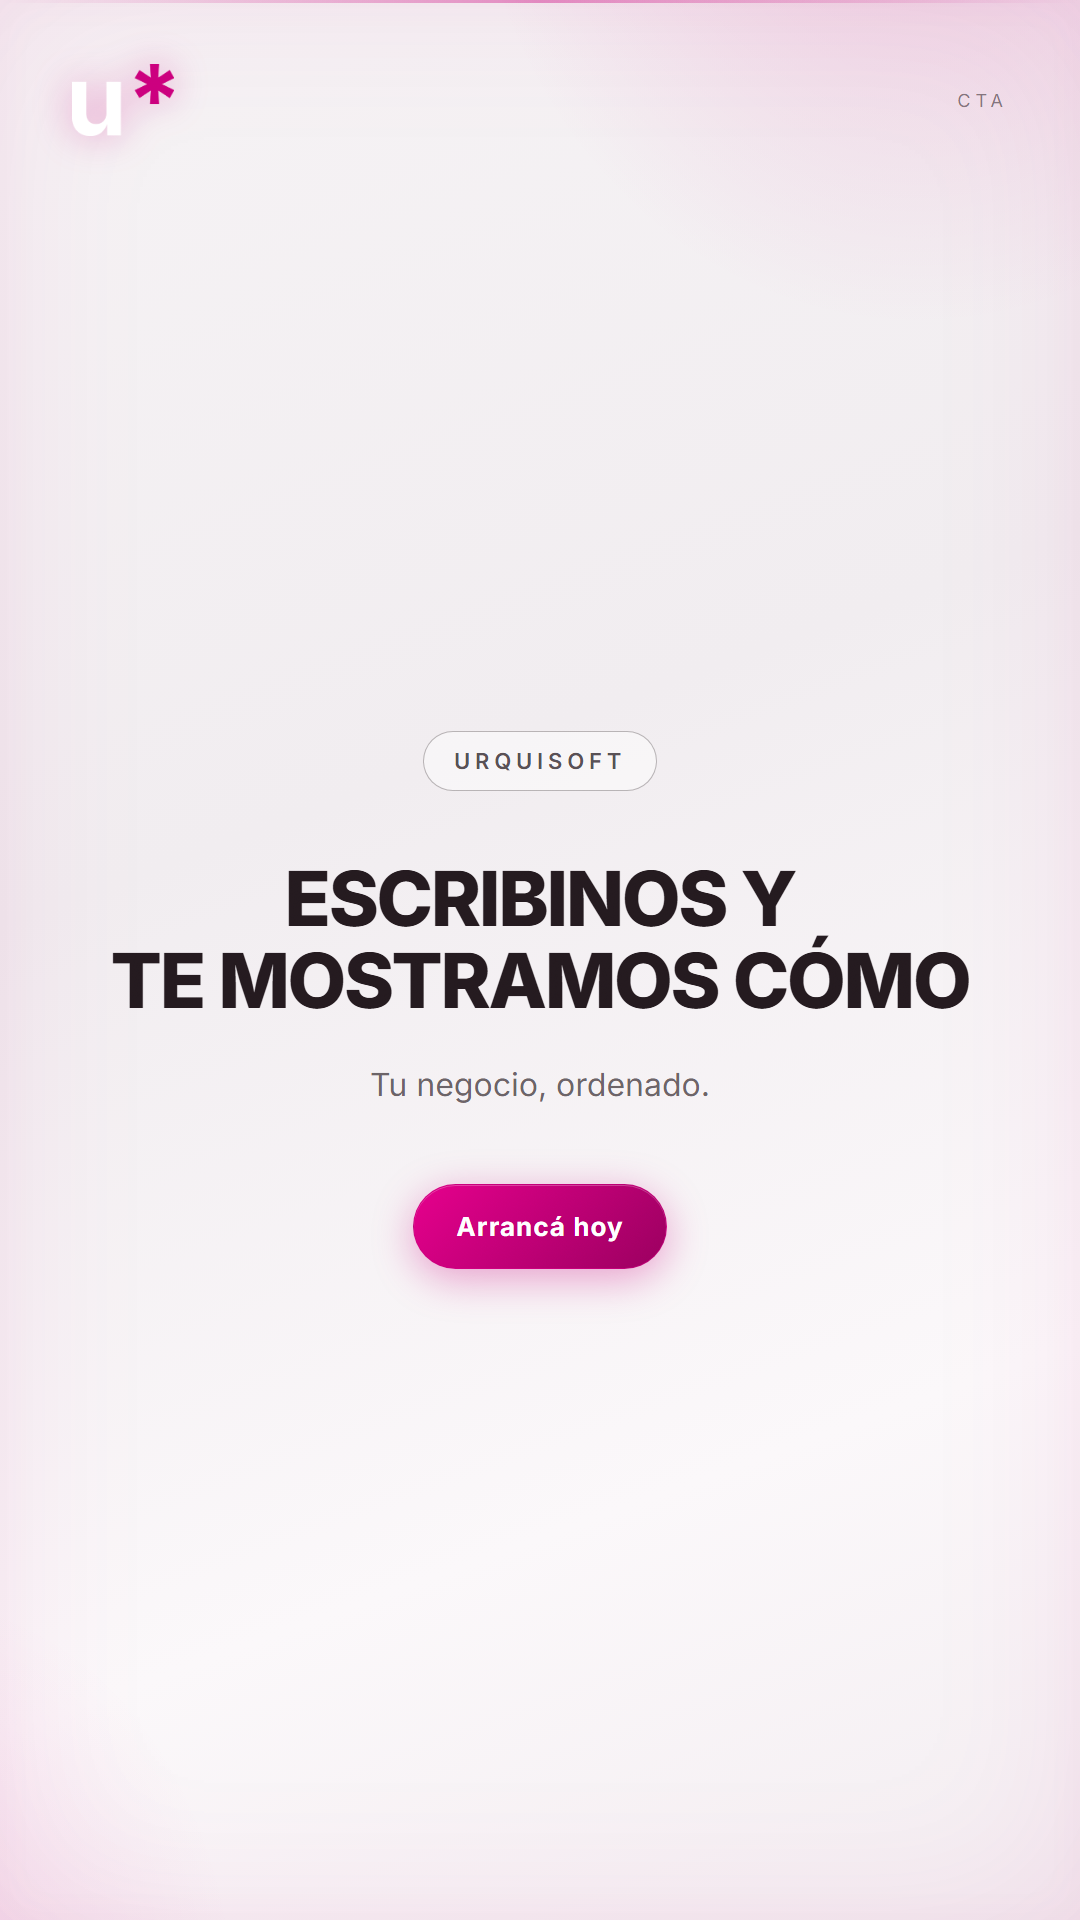
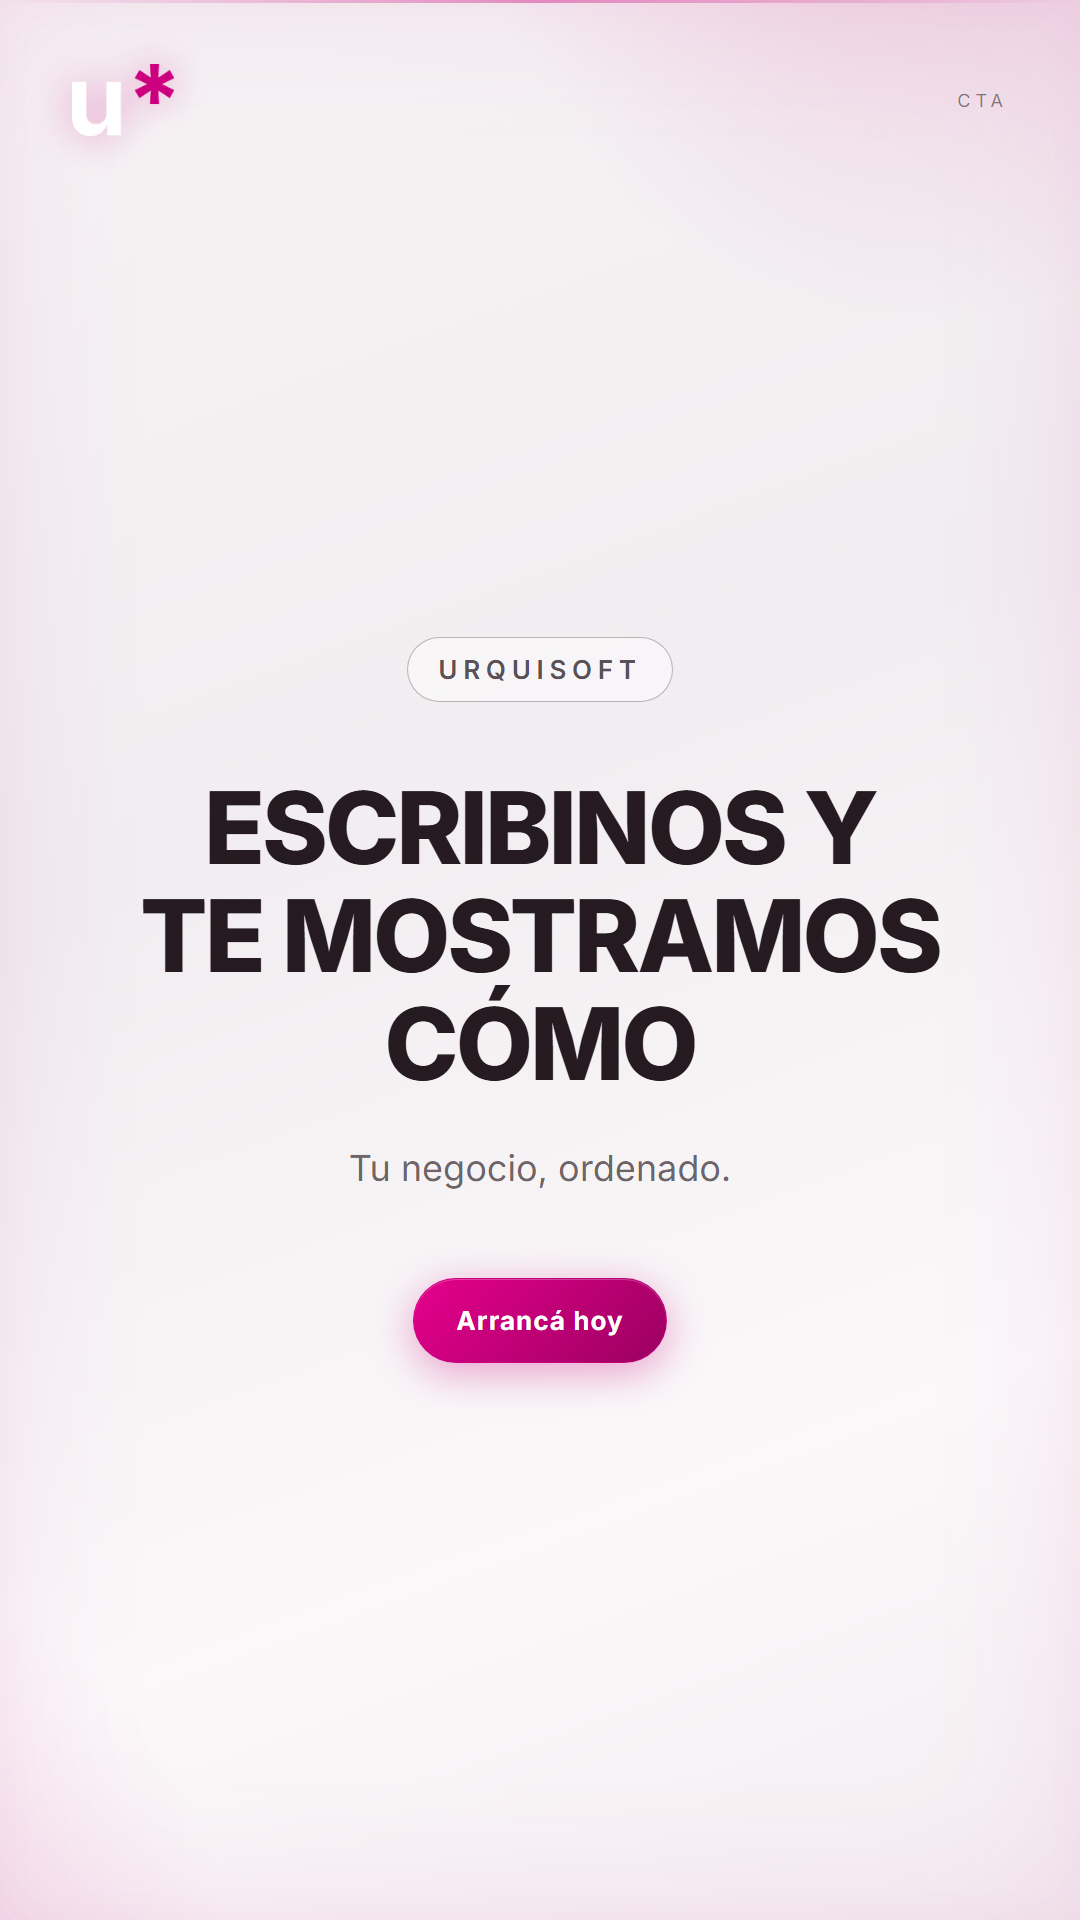
fix(stories): tipografia mas grande (titulo 100px, sub 36, kicker 26) solo en historias

Changed region(s): [[0.0917, 0.3438, 0.9167, 0.7188]]

diff --git a/stories/story-02/story.html b/stories/story-02/story.html
@@ -226,10 +226,10 @@ h1 .strike::after{content:"";position:absolute;left:-8px;right:-8px;top:54%;heig
 .scene .author .who{font-size:22px;font-weight:700;color:var(--w100)}
 .scene .author .who small{display:block;font-size:17px;font-weight:500;color:var(--w50)}
 
-.cover h1{font-size:76px;margin-top:60px}
-.cover .sub{margin-top:44px;font-size:32px;max-width:820px}
-.cover .cta{margin-top:80px}
-.cover .kicker{margin-bottom:6px}
+.cover h1{font-size:100px;margin-top:64px}
+.cover .sub{margin-top:48px;font-size:36px;max-width:860px}
+.cover .cta{margin-top:88px}
+.cover .kicker{margin-bottom:8px;font-size:26px}
 html,body{width:1080px;height:1920px;overflow:hidden}.slide{width:1080px;height:1920px}</style>
 </head>
 <body class="magenta">

diff --git a/stories/story-05/story.html b/stories/story-05/story.html
@@ -226,10 +226,10 @@ h1 .strike::after{content:"";position:absolute;left:-8px;right:-8px;top:54%;heig
 .scene .author .who{font-size:22px;font-weight:700;color:var(--w100)}
 .scene .author .who small{display:block;font-size:17px;font-weight:500;color:var(--w50)}
 
-.cover h1{font-size:76px;margin-top:60px}
-.cover .sub{margin-top:44px;font-size:32px;max-width:820px}
-.cover .cta{margin-top:80px}
-.cover .kicker{margin-bottom:6px}
+.cover h1{font-size:100px;margin-top:64px}
+.cover .sub{margin-top:48px;font-size:36px;max-width:860px}
+.cover .cta{margin-top:88px}
+.cover .kicker{margin-bottom:8px;font-size:26px}
 html,body{width:1080px;height:1920px;overflow:hidden}.slide{width:1080px;height:1920px}</style>
 </head>
 <body class="magenta">

diff --git a/stories/story-08/story.html b/stories/story-08/story.html
@@ -226,10 +226,10 @@ h1 .strike::after{content:"";position:absolute;left:-8px;right:-8px;top:54%;heig
 .scene .author .who{font-size:22px;font-weight:700;color:var(--w100)}
 .scene .author .who small{display:block;font-size:17px;font-weight:500;color:var(--w50)}
 
-.cover h1{font-size:76px;margin-top:60px}
-.cover .sub{margin-top:44px;font-size:32px;max-width:820px}
-.cover .cta{margin-top:80px}
-.cover .kicker{margin-bottom:6px}
+.cover h1{font-size:100px;margin-top:64px}
+.cover .sub{margin-top:48px;font-size:36px;max-width:860px}
+.cover .cta{margin-top:88px}
+.cover .kicker{margin-bottom:8px;font-size:26px}
 html,body{width:1080px;height:1920px;overflow:hidden}.slide{width:1080px;height:1920px}</style>
 </head>
 <body class="magenta">

diff --git a/stories/story-11/story.html b/stories/story-11/story.html
@@ -226,10 +226,10 @@ h1 .strike::after{content:"";position:absolute;left:-8px;right:-8px;top:54%;heig
 .scene .author .who{font-size:22px;font-weight:700;color:var(--w100)}
 .scene .author .who small{display:block;font-size:17px;font-weight:500;color:var(--w50)}
 
-.cover h1{font-size:76px;margin-top:60px}
-.cover .sub{margin-top:44px;font-size:32px;max-width:820px}
-.cover .cta{margin-top:80px}
-.cover .kicker{margin-bottom:6px}
+.cover h1{font-size:100px;margin-top:64px}
+.cover .sub{margin-top:48px;font-size:36px;max-width:860px}
+.cover .cta{margin-top:88px}
+.cover .kicker{margin-bottom:8px;font-size:26px}
 html,body{width:1080px;height:1920px;overflow:hidden}.slide{width:1080px;height:1920px}</style>
 </head>
 <body class="magenta">

diff --git a/stories/story-14/story.html b/stories/story-14/story.html
@@ -226,10 +226,10 @@ h1 .strike::after{content:"";position:absolute;left:-8px;right:-8px;top:54%;heig
 .scene .author .who{font-size:22px;font-weight:700;color:var(--w100)}
 .scene .author .who small{display:block;font-size:17px;font-weight:500;color:var(--w50)}
 
-.cover h1{font-size:76px;margin-top:60px}
-.cover .sub{margin-top:44px;font-size:32px;max-width:820px}
-.cover .cta{margin-top:80px}
-.cover .kicker{margin-bottom:6px}
+.cover h1{font-size:100px;margin-top:64px}
+.cover .sub{margin-top:48px;font-size:36px;max-width:860px}
+.cover .cta{margin-top:88px}
+.cover .kicker{margin-bottom:8px;font-size:26px}
 html,body{width:1080px;height:1920px;overflow:hidden}.slide{width:1080px;height:1920px}</style>
 </head>
 <body class="magenta">

diff --git a/stories/story-03/story.html b/stories/story-03/story.html
@@ -226,10 +226,10 @@ h1 .strike::after{content:"";position:absolute;left:-8px;right:-8px;top:54%;heig
 .scene .author .who{font-size:22px;font-weight:700;color:var(--w100)}
 .scene .author .who small{display:block;font-size:17px;font-weight:500;color:var(--w50)}
 
-.cover h1{font-size:76px;margin-top:60px}
-.cover .sub{margin-top:44px;font-size:32px;max-width:820px}
-.cover .cta{margin-top:80px}
-.cover .kicker{margin-bottom:6px}
+.cover h1{font-size:100px;margin-top:64px}
+.cover .sub{margin-top:48px;font-size:36px;max-width:860px}
+.cover .cta{margin-top:88px}
+.cover .kicker{margin-bottom:8px;font-size:26px}
 html,body{width:1080px;height:1920px;overflow:hidden}.slide{width:1080px;height:1920px}</style>
 </head>
 <body class="light">

diff --git a/stories/story-06/story.html b/stories/story-06/story.html
@@ -226,10 +226,10 @@ h1 .strike::after{content:"";position:absolute;left:-8px;right:-8px;top:54%;heig
 .scene .author .who{font-size:22px;font-weight:700;color:var(--w100)}
 .scene .author .who small{display:block;font-size:17px;font-weight:500;color:var(--w50)}
 
-.cover h1{font-size:76px;margin-top:60px}
-.cover .sub{margin-top:44px;font-size:32px;max-width:820px}
-.cover .cta{margin-top:80px}
-.cover .kicker{margin-bottom:6px}
+.cover h1{font-size:100px;margin-top:64px}
+.cover .sub{margin-top:48px;font-size:36px;max-width:860px}
+.cover .cta{margin-top:88px}
+.cover .kicker{margin-bottom:8px;font-size:26px}
 html,body{width:1080px;height:1920px;overflow:hidden}.slide{width:1080px;height:1920px}</style>
 </head>
 <body class="light">

diff --git a/stories/story-09/story.html b/stories/story-09/story.html
@@ -226,10 +226,10 @@ h1 .strike::after{content:"";position:absolute;left:-8px;right:-8px;top:54%;heig
 .scene .author .who{font-size:22px;font-weight:700;color:var(--w100)}
 .scene .author .who small{display:block;font-size:17px;font-weight:500;color:var(--w50)}
 
-.cover h1{font-size:76px;margin-top:60px}
-.cover .sub{margin-top:44px;font-size:32px;max-width:820px}
-.cover .cta{margin-top:80px}
-.cover .kicker{margin-bottom:6px}
+.cover h1{font-size:100px;margin-top:64px}
+.cover .sub{margin-top:48px;font-size:36px;max-width:860px}
+.cover .cta{margin-top:88px}
+.cover .kicker{margin-bottom:8px;font-size:26px}
 html,body{width:1080px;height:1920px;overflow:hidden}.slide{width:1080px;height:1920px}</style>
 </head>
 <body class="light">

diff --git a/stories/story-12/story.html b/stories/story-12/story.html
@@ -226,10 +226,10 @@ h1 .strike::after{content:"";position:absolute;left:-8px;right:-8px;top:54%;heig
 .scene .author .who{font-size:22px;font-weight:700;color:var(--w100)}
 .scene .author .who small{display:block;font-size:17px;font-weight:500;color:var(--w50)}
 
-.cover h1{font-size:76px;margin-top:60px}
-.cover .sub{margin-top:44px;font-size:32px;max-width:820px}
-.cover .cta{margin-top:80px}
-.cover .kicker{margin-bottom:6px}
+.cover h1{font-size:100px;margin-top:64px}
+.cover .sub{margin-top:48px;font-size:36px;max-width:860px}
+.cover .cta{margin-top:88px}
+.cover .kicker{margin-bottom:8px;font-size:26px}
 html,body{width:1080px;height:1920px;overflow:hidden}.slide{width:1080px;height:1920px}</style>
 </head>
 <body class="light">

diff --git a/stories/story-15/story.html b/stories/story-15/story.html
@@ -226,10 +226,10 @@ h1 .strike::after{content:"";position:absolute;left:-8px;right:-8px;top:54%;heig
 .scene .author .who{font-size:22px;font-weight:700;color:var(--w100)}
 .scene .author .who small{display:block;font-size:17px;font-weight:500;color:var(--w50)}
 
-.cover h1{font-size:76px;margin-top:60px}
-.cover .sub{margin-top:44px;font-size:32px;max-width:820px}
-.cover .cta{margin-top:80px}
-.cover .kicker{margin-bottom:6px}
+.cover h1{font-size:100px;margin-top:64px}
+.cover .sub{margin-top:48px;font-size:36px;max-width:860px}
+.cover .cta{margin-top:88px}
+.cover .kicker{margin-bottom:8px;font-size:26px}
 html,body{width:1080px;height:1920px;overflow:hidden}.slide{width:1080px;height:1920px}</style>
 </head>
 <body class="light">

diff --git a/stories/story-01/story.html b/stories/story-01/story.html
@@ -226,10 +226,10 @@ h1 .strike::after{content:"";position:absolute;left:-8px;right:-8px;top:54%;heig
 .scene .author .who{font-size:22px;font-weight:700;color:var(--w100)}
 .scene .author .who small{display:block;font-size:17px;font-weight:500;color:var(--w50)}
 
-.cover h1{font-size:76px;margin-top:60px}
-.cover .sub{margin-top:44px;font-size:32px;max-width:820px}
-.cover .cta{margin-top:80px}
-.cover .kicker{margin-bottom:6px}
+.cover h1{font-size:100px;margin-top:64px}
+.cover .sub{margin-top:48px;font-size:36px;max-width:860px}
+.cover .cta{margin-top:88px}
+.cover .kicker{margin-bottom:8px;font-size:26px}
 html,body{width:1080px;height:1920px;overflow:hidden}.slide{width:1080px;height:1920px}</style>
 </head>
 <body class="">

diff --git a/stories/story-04/story.html b/stories/story-04/story.html
@@ -226,10 +226,10 @@ h1 .strike::after{content:"";position:absolute;left:-8px;right:-8px;top:54%;heig
 .scene .author .who{font-size:22px;font-weight:700;color:var(--w100)}
 .scene .author .who small{display:block;font-size:17px;font-weight:500;color:var(--w50)}
 
-.cover h1{font-size:76px;margin-top:60px}
-.cover .sub{margin-top:44px;font-size:32px;max-width:820px}
-.cover .cta{margin-top:80px}
-.cover .kicker{margin-bottom:6px}
+.cover h1{font-size:100px;margin-top:64px}
+.cover .sub{margin-top:48px;font-size:36px;max-width:860px}
+.cover .cta{margin-top:88px}
+.cover .kicker{margin-bottom:8px;font-size:26px}
 html,body{width:1080px;height:1920px;overflow:hidden}.slide{width:1080px;height:1920px}</style>
 </head>
 <body class="">
